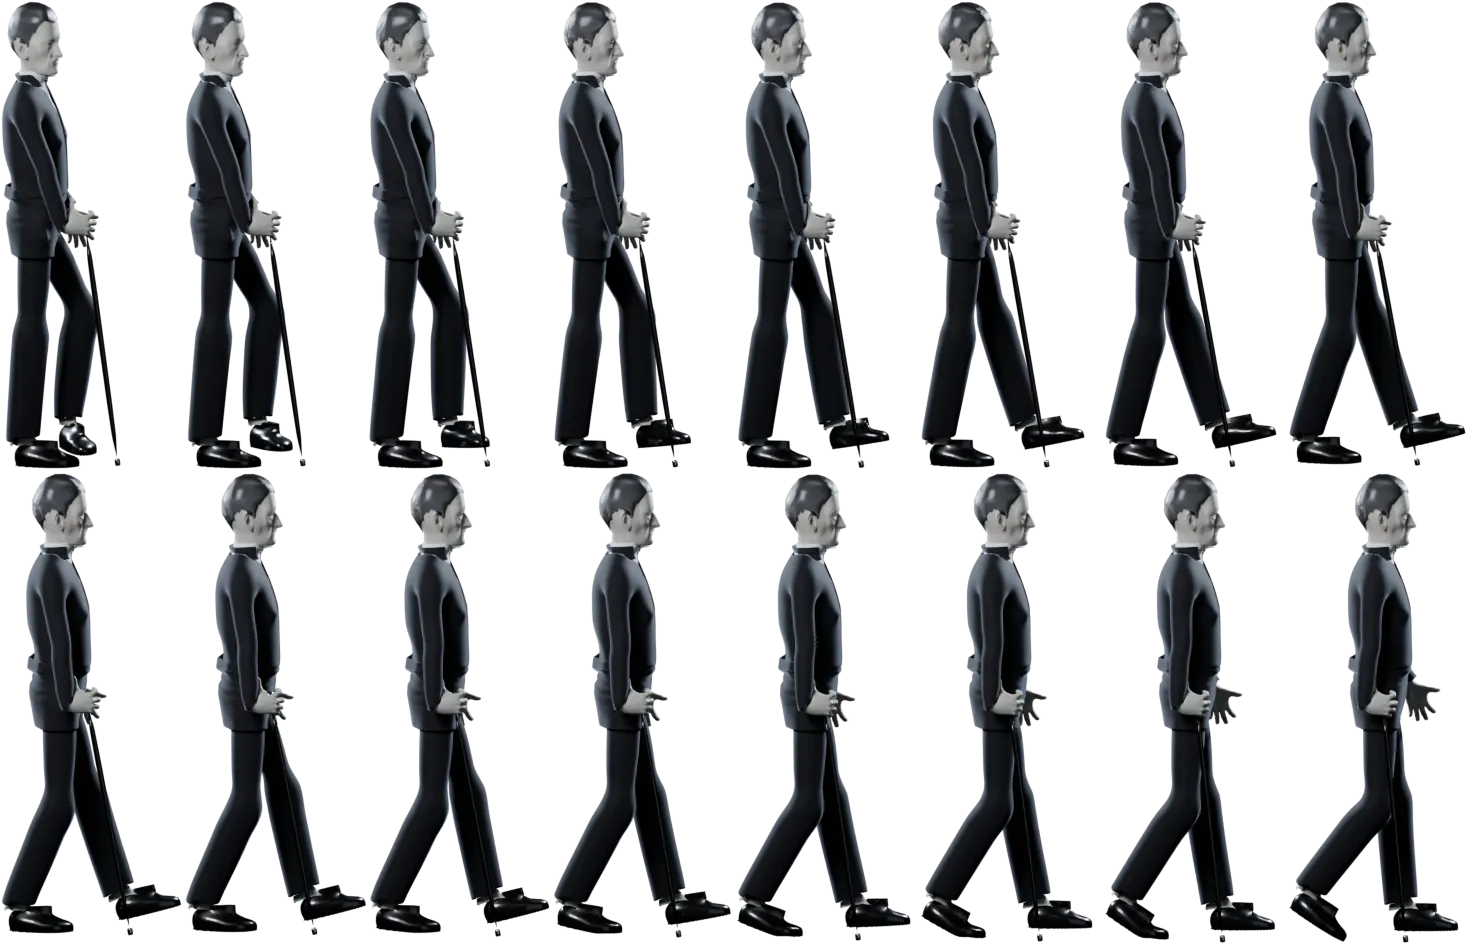
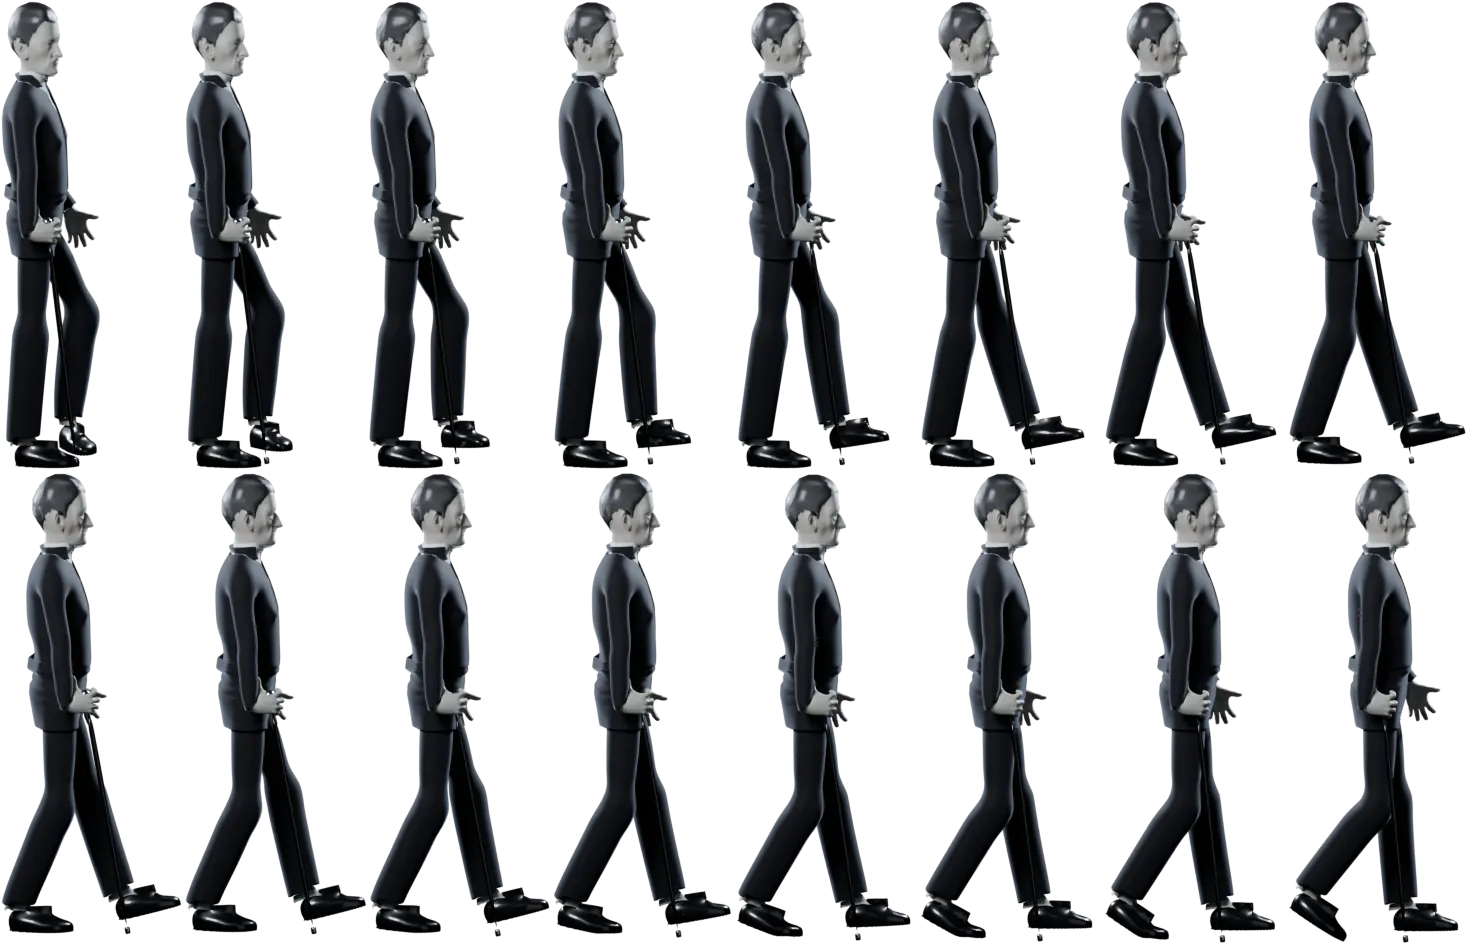
Death's arms stay out of his chest when he faces you
Facing the viewer with his hands on the cane, his forearms passed up to
5 cm into his chest: the cane stood only 9 cm in front of him, and swept
across his front at hand height as he turned. Now he carries it at his
side through the turn, swings it out wide and sets it down 42 cm in
front, and leans onto it a touch with his elbows out.

Every rendered frame is now measured against his torso (armClearance in
deathFrames.json), and a test fails if an arm is ever inside him again.

diff --git a/tests/unit/deathFilm.test.ts b/tests/unit/deathFilm.test.ts
@@ -4,6 +4,8 @@ import { describe, expect, it } from 'vitest'
 
 /** The parts of src/lib/deathFilm.ts's Film this checks (read from disk, as the other fact tests do). */
 interface Film {
+  /** How far his elbows and forearms stay outside his body at the closest, over every frame (cm). */
+  armClearance: number
   frameWidth: number
   frameHeight: number
   stride: number
@@ -27,6 +29,12 @@ describe('the rendered film', () => {
       expect(f.dx + f.w).toBeLessThanOrEqual(FILM.frameWidth)
       expect(f.dy + f.h).toBeLessThanOrEqual(FILM.frameHeight)
     }
+  })
+
+  it('keeps his arms outside his body in every frame (measured when the take was rendered)', () => {
+    // Facing you with his hands on the cane, his arms once passed through his
+    // chest. death_scene.py measures every rendered frame against his torso.
+    expect(FILM.armClearance).toBeGreaterThan(0)
   })
 
   it('walks him forward every stride; in the scene he stops, stands a long while, and walks on', () => {

diff --git a/scripts/art/death_motion.py b/scripts/art/death_motion.py
@@ -367,7 +367,9 @@ class Motion:
         # ── His cane: where its tip is set down, and where his hand would be.
         A_hand = 0.08
         side_tip = np.array([X0 + self.cane_x, Ye - 0.13, 0.0])
-        front_tip = np.array([X0 - (abs(self.cane_x) + 0.02), Ye, 0.0])
+        # Facing you, the cane stands a forearm's length in front of him, so his
+        # arms reach forward to it rather than folding into his chest.
+        front_tip = np.array([X0 - 0.42, Ye, 0.0])
         side_knob = np.array([side_tip[0] + 0.025, Ye])
 
         def stride_tip(t0):
@@ -377,14 +379,21 @@ class Motion:
         for k in range(-1, 4):
             t0 = tw + k * C
             canes.append((t0, t0 + C / 2, stride_tip(t0)))
-        canes.append((ts + C, t_turn + 0.2 * nF, side_tip))
-        canes.append((t_turn + 0.75 * nF, t_back + 0.1 * nJ, front_tip))
+        # He carries it at his side as he comes round (CARRY), and only facing
+        # you brings it out in front and sets it down.
+        carry0, carry1 = t_turn + 0.1 * nF, t_hands + 0.55 * nG
+        # ...and turning away, carries it back round to his side the same way.
+        back0, back1 = t_back + 0.1 * nJ, t_back + 0.65 * nJ
+        canes.append((ts + C, carry0, side_tip))
+        canes.append((carry1, back0, front_tip))
+        # (Where he has carried it to, as a moment's stop before his stride.)
+        canes.append((back1, back1, None))
         for k in range(0, 3):
             t0 = t_s2 + k * C
             canes.append((t0, t0 + C / 2, stride_tip(t0)))
 
         def front_knob(psi):
-            return P_end + yaw(psi)[:2, :2] @ np.array([0.0, -(abs(self.cane_x) - 0.05)])
+            return P_end + yaw(psi)[:2, :2] @ np.array([0.0, -0.36])
 
         def stride_knob(t):
             return np.array([X0 + self.cane_x + 0.03, hips_y(t) + self.hand_y - A_hand * math.cos(2 * math.pi * phase(t))])
@@ -399,13 +408,48 @@ class Motion:
                 return side_knob
             if t < t_back:
                 return lerp(side_knob, front_knob(psi), smoother(-psi / 90.0))
+            if t <= back0:
+                return front_knob(-90.0)
             if t < t_s2:
-                return lerp(front_knob(-90.0), stride_knob(t_s2), smoother((t - t_back) / (t_s2 - t_back)))
+                # From his side, where he carried it, into his stride.
+                at_side = landed[0][:2]
+                return lerp(at_side, stride_knob(t_s2), smoother((t - back1) / (t_s2 - back1)))
             return stride_knob(t)
+
+        # Carried, the cane is placed relative to him (x across, y back, from his
+        # hips): at his right side, leaning a little forward, held clear of the
+        # ground; then, facing you, swung out round in front of him on an arc
+        # well clear of his body, and set down.
+        side_body = (np.array([self.cane_x + 0.025, -0.03]), np.array([self.cane_x, -0.10]))
+        front_body = (np.array([0.0, -0.36]), np.array([0.0, -0.42]))
+
+        def arc(a, b, f):
+            # Swung wide of him on the way (never across his front).
+            ra, rb = math.hypot(*a), math.hypot(*b)
+            ta, tb = math.atan2(a[0], -a[1]), math.atan2(b[0], -b[1])
+            r = ra + (rb - ra) * f + 0.08 * math.sin(math.pi * f)
+            th = ta + (tb - ta) * f
+            return np.array([r * math.sin(th), -r * math.cos(th)])
+
+        def carried(t, psi):
+            if t < back0:
+                f = smoother((t - t_hands) / (carry1 - t_hands)) if t > t_hands else 0.0
+                lift = 0.03 * min(1.0, (t - carry0) / 4.0) * (1.0 - f)
+            else:
+                f = 1.0 - smoother((t - back0) / (back1 - back0))
+                lift = 0.03 * math.sin(math.pi * min(1.0, (t - back0) / (back1 - back0)))
+            knob_b = arc(side_body[0], front_body[0], f)
+            tip_b = arc(side_body[1], front_body[1], f)
+            Y = yaw(psi)[:2, :2]
+            tip = np.append(P_end + Y @ tip_b, 0.0)
+            top = self._knob(tip, P_end + Y @ knob_b)
+            return tip + np.array([0.0, 0.0, lift]), top + np.array([0.0, 0.0, lift])
 
         def cane_at(t, psi):
             """(tip, top) of the cane: planted, or swinging under his hand to
             where it will be planted next (clear of the ground)."""
+            if carry0 < t < carry1 or back0 < t <= back1:
+                return carried(t, psi)
             xy = knob_xy(t, psi)
             for k, (t0, t1, tip) in enumerate(canes):
                 if t0 <= t <= t1 or (k == 0 and t < t0):
@@ -440,6 +484,15 @@ class Motion:
                 psi = -90.0 + 90.0 * smoother(u)
                 shift = 0.35 * (plants["L"][6].F - P_end) * bump(u, 0.05, 0.6)
             return np.array([X0 + sway + shift[0], hips_y(t) + shift[1]]), psi, rot(y=drop * 0.6, z=turn)
+
+        # Where he set the cane down at his side, turning away (its top, its tip).
+        landed = [None]
+        top_b1 = None
+        for i, (t0, t1, tip) in enumerate(canes):
+            if tip is None:
+                tip_b1, top_b1 = carried(t0, hips_at(t0)[1])
+                canes[i] = (t0, t1, tip_b1)
+        landed[0] = top_b1
 
         def root_of(xy, psi, Rloc, z):
             M = np.eye(4)
@@ -534,7 +587,7 @@ class Motion:
         def on_knob(t):
             """0: his fist round the cane under the knob; 1: his palm on the
             knob (his hands at rest on it, facing you)."""
-            return smoother((t - t_hands) / (0.6 * nG)) * (1.0 - smoother((t - t_release) / nI))
+            return smoother((t - t_hands - 0.3 * nG) / (0.4 * nG)) * (1.0 - smoother((t - t_release) / nI))
 
         def look(R, amount, eyes, pitch):
             for bone, deg in HEAD:
@@ -575,7 +628,11 @@ class Motion:
                 look(R, a, e, pitch)
             if t_hands <= t < t_back + nJ:
                 u = smoother((t - t_hands) / nG) * (1.0 - smoother((t - t_release) / (nI + nJ * 0.5)))
-                _after(R, "spine02", rot(x=2.0 * u))
+                # He leans a little onto it, his shoulders coming forward as his
+                # hands go to the knob, so his arms fall in front of him.
+                _after(R, "spine02", rot(x=3.5 * u))
+                _after(R, "clavicle.L", rot(z=-8.0 * u))
+                _after(R, "clavicle.R", rot(z=8.0 * u))
                 tilt = smoother((t - t_regard) / nH) * (1.0 - smoother((t - t_release) / nI))
                 _after(R, "head", rot(x=1.5 * u, y=-3.5 * tilt))
             # The legs.
@@ -595,7 +652,9 @@ class Motion:
             grip = top - u_cane * 0.055 - n_grip * 0.02 - f_grip * 0.025
             on = top + u_cane * 0.02
             f_body = lerp((-0.35, -1.0, -0.15), (0.25, -1.0, -0.2), smoother(-psi / 90.0))
-            self.reach(R, root, "R", lerp(grip, on, k), lerp(f_grip, yaw(psi) @ f_body, k), lerp(n_grip, -u_cane, k), yaw(psi) @ np.array([-0.5, 1.0, -0.1]))
+            # (Carrying it, his elbow points back; resting on it, out to the side.)
+            pole_r = lerp((-0.5, 1.0, -0.1), (-0.85, 0.5, -0.15), k)
+            self.reach(R, root, "R", lerp(grip, on, k), lerp(f_grip, yaw(psi) @ f_body, k), lerp(n_grip, -u_cane, k), yaw(psi) @ pole_r)
             wm.curl(R, "R", 0.88 - 0.33 * k)
             # His left hand comes to rest on his right, and leaves it again.
             if t_hands <= t < t_back:
@@ -605,7 +664,8 @@ class Motion:
                 on = right + yaw(psi) @ np.array([-0.004, -0.012, 0.0]) + np.array([0.0, 0.0, 0.042])
                 on_dirs = (yaw(psi) @ np.array([-0.55, -1.0, -0.1]), np.array([0.0, 0.0, -1.0]))
                 if t < t_release:
-                    u = (t - t_hands) / nG
+                    # (Once the cane is down and his right hand is on it.)
+                    u = (t - t_hands - 0.45 * nG) / (0.55 * nG)
                     e = smoother(u)
                     start = left_from
                     lift = bump(u)
@@ -618,7 +678,7 @@ class Motion:
                     start = left_back
                     lift = bump(u)
                 target = lerp(start[0], on, e) + np.array([0.0, 0.0, 0.035]) * lift
-                self.reach(R, root, "L", target, lerp(start[1], on_dirs[0], e), lerp(start[2], on_dirs[1], e), yaw(psi) @ np.array([0.6, 0.8, -0.1]))
+                self.reach(R, root, "L", target, lerp(start[1], on_dirs[0], e), lerp(start[2], on_dirs[1], e), yaw(psi) @ np.array([0.85, 0.5, -0.15]))
                 wm.curl(R, "L", 0.5 - 0.26 * e)
             rec = None
             if fi < tw:
@@ -635,6 +695,56 @@ class Motion:
             M[:3, 0], M[:3, 1], M[:3, 2], M[:3, 3] = xc, np.cross(zc, xc), zc, tip
             out.append(dict(R=R, root=root, cane=M, blink=blink, hips=float(hips_y(t)), rec=rec))
         return out
+
+    def arm_clearance(self, take):
+        """How far his elbows and forearms stay outside his body, at the
+        closest, over every rendered frame (m; negative: an arm inside him).
+        His torso is its outline at each height in the rest pose, let out by
+        his jacket; each elbow and forearm is brought back into his own frame
+        (hips at the origin, facing -y) and measured against the outline at
+        its height."""
+        base = mh.Base.get()
+        body = base.verts_of("body")
+        names = self.sk.names
+        cols = [self.idx[n] for n in names if n.startswith(("upperarm", "lowerarm", "wrist", "finger", "metacarpal", "shoulder", "clavicle", "neck", "head", "upperleg", "lowerleg", "foot", "toe"))]
+        limbs = self.W[body][:, cols].sum(1)
+        torso = self.co[body][limbs < 0.2] - self.Jp
+        zs = np.arange(-0.1, 0.45, 0.02)
+        th = np.linspace(0, 2 * math.pi, 48, endpoint=False)
+        outline = {}
+        for z in zs:
+            band = torso[np.abs(torso[:, 2] - z) < 0.015]
+            if len(band) < 8:
+                continue
+            ang = np.arctan2(band[:, 0], -band[:, 1]) % (2 * math.pi)
+            r = np.hypot(band[:, 0], band[:, 1])
+            k = (np.round(ang / (2 * math.pi) * 48).astype(int)) % 48
+            radius = np.zeros(48)
+            np.maximum.at(radius, k, r)
+            for _ in range(48):
+                gap = radius == 0
+                if not gap.any():
+                    break
+                radius[gap] = np.maximum(np.roll(radius, 1), np.roll(radius, -1))[gap]
+            outline[round(float(z), 2)] = radius + 0.012
+        worst = float("inf")
+        for f in take:
+            if f["rec"] is None:
+                continue
+            D = self.fk(f["R"], f["root"])
+            inv = np.linalg.inv(f["root"])
+            for s in "LR":
+                E = self.at(D, f"lowerarm01.{s}", self.heads[self.idx[f"lowerarm01.{s}"]])
+                W = self.at(D, f"wrist.{s}", self.heads[self.idx[f"wrist.{s}"]])
+                for P in (E, (E + W) / 2, W):
+                    q = (inv @ np.append(P, 1.0))[:3] - self.Jp
+                    z = round(round(q[2] / 0.02) * 0.02, 2)
+                    if z not in outline:
+                        continue
+                    a = math.atan2(q[0], -q[1]) % (2 * math.pi)
+                    edge = outline[z][int(round(a / (2 * math.pi) * 48)) % 48]
+                    worst = min(worst, math.hypot(q[0], q[1]) - edge)
+        return worst
 
     def _knob(self, tip, xy):
         """The top of the cane over `tip`, toward (x, y), on the sphere of its length."""

diff --git a/scripts/art/death_scene.py b/scripts/art/death_scene.py
@@ -147,6 +147,8 @@ def main():
             originY=FOOT * a.ppu,
             crownY=round((FOOT - person.H * TILE) * a.ppu, 1),
             stride=round(mo.d * ppb, 2),
+            # How far his arms stay outside his body at the closest (cm).
+            armClearance=round(mo.arm_clearance(take) * 100, 1),
             cane=mo.L,
             frames=frames,
         ),

diff --git a/scripts/art/death_film.py b/scripts/art/death_film.py
@@ -69,6 +69,7 @@ def main(src):
             originY=take["originY"],
             crownY=take["crownY"],
             stride=take["stride"],
+            armClearance=take.get("armClearance"),
             sheets=sheets,
             frames=index,
             walk=walk,
